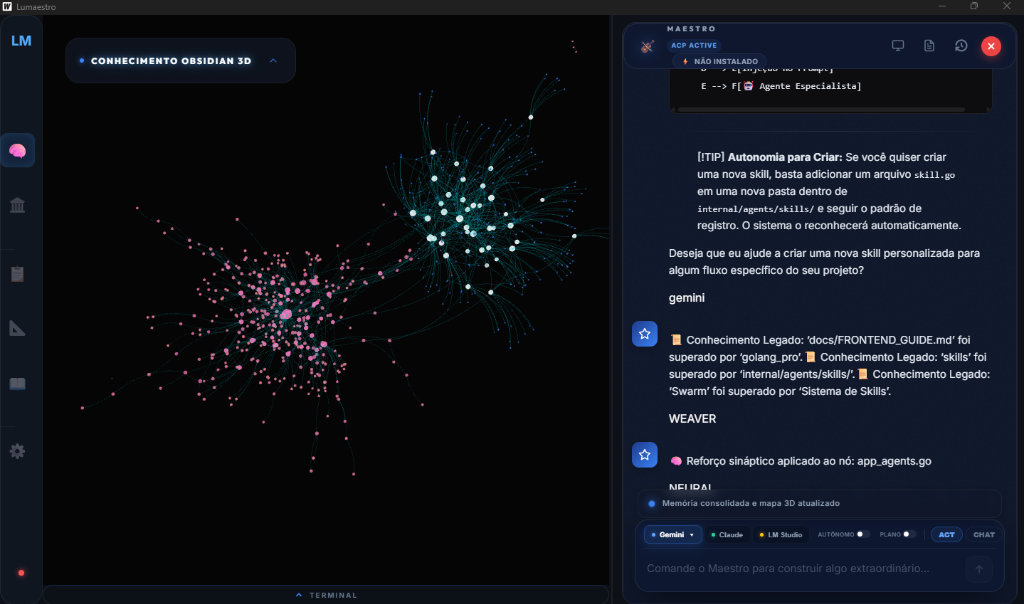
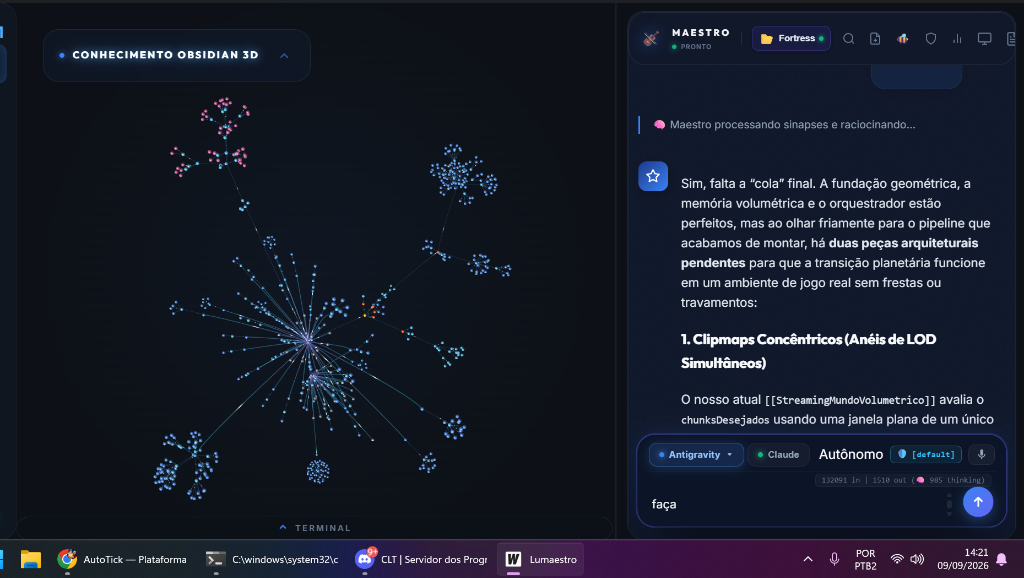
docs: update README hero image with modern Cockpit UI screenshot

diff --git a/README.md b/README.md
@@ -7,7 +7,7 @@
 [![Antigravity](https://img.shields.io/badge/Engine-Google_Antigravity-8b5cf6?style=for-the-badge)](https://github.com/jvkabum/Lumaestro)
 [![Release](https://img.shields.io/badge/Release-v1.0.0-f59e0b?style=for-the-badge)](https://github.com/jvkabum/Lumaestro/releases)
 
-![Lumaestro Neural Graph Hero](./media/lumaestro_graph_hero.png)
+![Lumaestro Cockpit](./media/lumaestro_full_ui.png)
 
 O **Lumaestro** é um **Sistema Operacional Cognitivo (COS)** e **Orquestrador Soberano de IA** projetado para unificar o conhecimento pessoal (Obsidian vaults), bases de código de software (repositórios locais) e agentes autônomos de elite em um universo tridimensional dinâmico e navegável.
 
